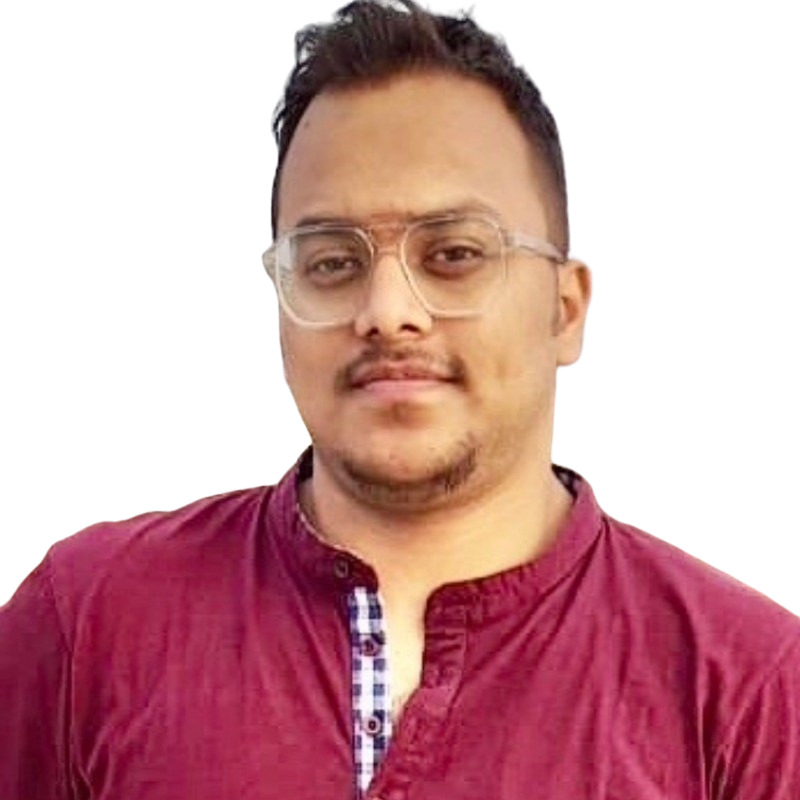
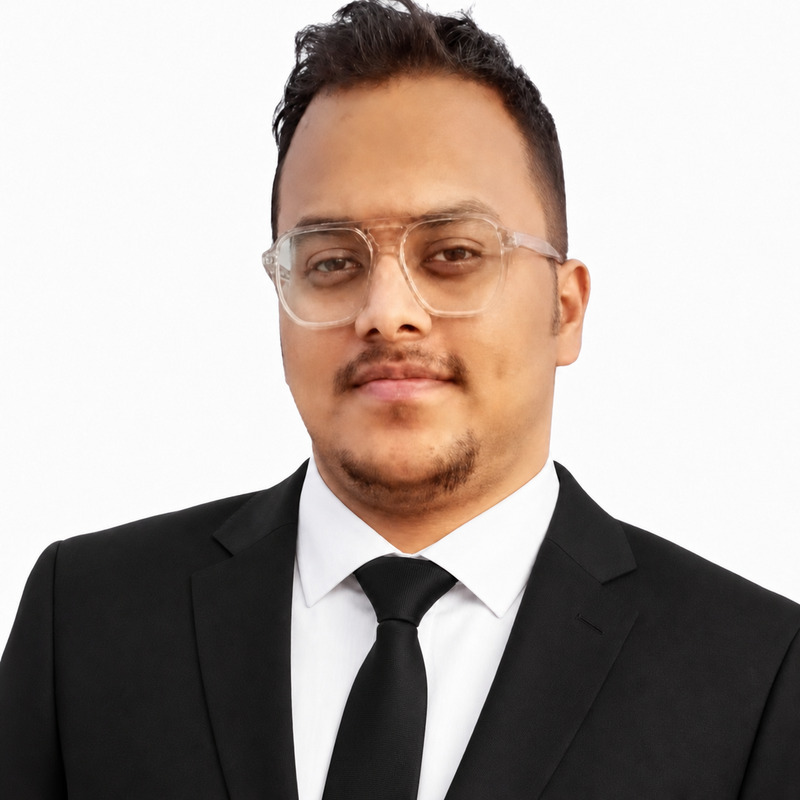
New profile photo; keep bio bullets aligned beside the float
- Replace the profile photo with the suit headshot (converted to real
  JPEG - the supplied file was PNG data under a .jpg name - and resized
  from 1254px to 800px, 1.6MB down to 91KB)
- The bio list straddles the bottom edge of the floated photo, so the
  last item re-flowed to full width partway through and its remaining
  lines dedented past the bullet. Give the list its own block formatting
  context so it clears the float and every line shares one left edge.
  Applying this to the items instead drops their markers, because
  flow-root overrides display: list-item.
- Includes about.md copy edits

diff --git a/_sass/_base.scss b/_sass/_base.scss
@@ -229,6 +229,16 @@ ul.task-list input[type="checkbox"] {
   }
 }
 
+// A list that straddles the bottom edge of the floated profile photo re-flows
+// to full width partway through, so the later lines of an item dedent past its
+// bullet. Giving the list its own block formatting context keeps it clear of
+// the float so every line shares one left edge. Applying this to the items
+// instead would drop their markers, since flow-root overrides display: list-item.
+.post > article > .clearfix > ul,
+.post > article > .clearfix > ol {
+  display: flow-root;
+}
+
 // Below that the profile does stack above the bio, so keep the photo modest
 // and centred instead of letting it fill the column and push the text off-screen.
 @media (max-width: 479.98px) {

diff --git a/_pages/about.md b/_pages/about.md
@@ -32,7 +32,7 @@ I am a fifth-year PhD student in Computer Science at [Georgia State University](
 
 - **Interpretability, uncertainty quantification, and control.** I study how to read an LLM agent’s internal state step by step so failures can be detected before a trajectory ends, and how to align stated confidence with verifiable visual evidence.
 - **Knowledge-enhanced multimodal learning.** I integrate commonsense and structured knowledge to design compact vision-language models (< 1B) that can perform at par with Large Vision Language models (LVLMs) while being more interpretable and controllable.
-- **Safety and social impact.** Red-teaming vision-language models and agents under realistic, multi-turn adversarial pressure—including harassment, toxicity, and manipulation—and study LLM behavior in sensitive settings such as anxiety support.
+- **Safety and social impact.** Red-teaming vision-language models and agents under realistic, multi-turn adversarial pressure; including harassment, toxicity, and manipulation—and study LLM behavior in sensitive settings such as anxiety support.
 
-During my PhD, I was fortunate enough to contribute to creating high-quality synthetic data and pretraining for Physical AI Initiatives as a 2x Applied Scientist intern at **Data & AI Team, Siemens GenAI R&D** in Seattle. I also worked as a Research Intern at **SRI International** (formerly the Stanford Research Institute) in Menlo Park with the Neuro-Symbolic Computing and Intelligence group funded by ARPA-H to design UQ methods for health. Before starting my PhD, I worked as a Data Science Researcher at **Rakuten AI Labs** in Bengaluru. I have also held research internships at **Bosch Research** and **NVIDIA Research**. I am always happy to discuss multimodal reasoning, agent interpretability, and AI safety—feel free to [get in touch](mailto:tpadhi1@student.gsu.edu). I actively collaborate with researchers and students. If you are interested in working together, please reach out via email at [tpadhi1@student.gsu.edu](mailto:tpadhi1@student.gsu.edu) or on [LinkedIn](https://www.linkedin.com/in/trilokpadhi/).
+During my PhD, I was fortunate enough to contribute to creating high-quality synthetic data and pretraining for Physical AI Initiatives as a 2x Applied Scientist intern at **Data & AI Team, Siemens GenAI R&D** in Seattle. I also worked as a Research Intern at **SRI International** (formerly the Stanford Research Institute) in Menlo Park with the Neuro-Symbolic Computing and Intelligence group funded by ARPA-H to design UQ methods for health. Before starting my PhD, I worked as a Data Science Researcher at **Rakuten AI Labs** in Bengaluru. I have also held research internships at **Bosch Research** and **NVIDIA Research**. I am always happy to discuss multimodal reasoning, agent interpretability, and AI safety; feel free to [get in touch](mailto:tpadhi1@student.gsu.edu). I actively collaborate with researchers and students. If you are interested in working together, please reach out via email at [tpadhi1@student.gsu.edu](mailto:tpadhi1@student.gsu.edu) or on [LinkedIn](https://www.linkedin.com/in/trilokpadhi/).
 
